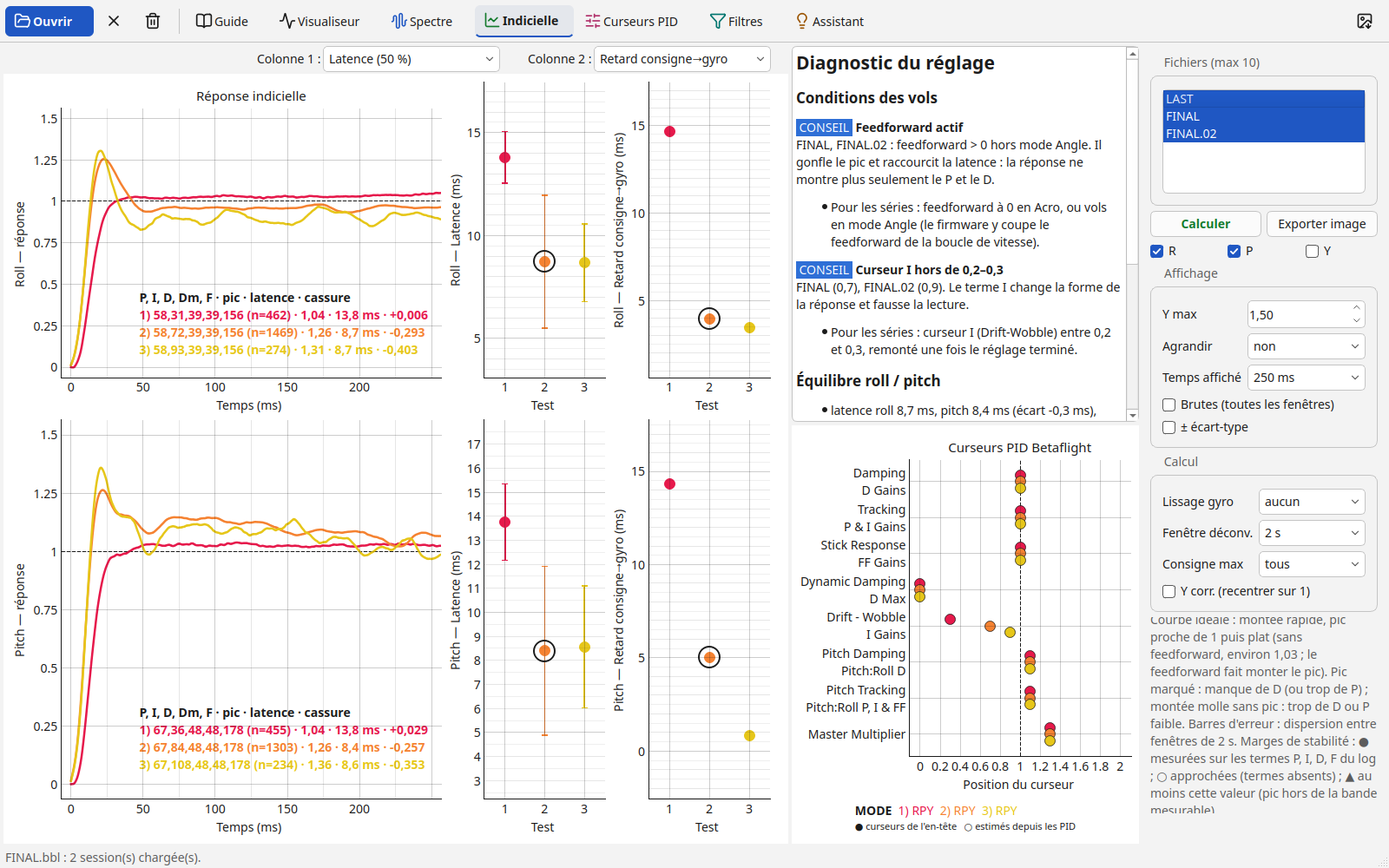
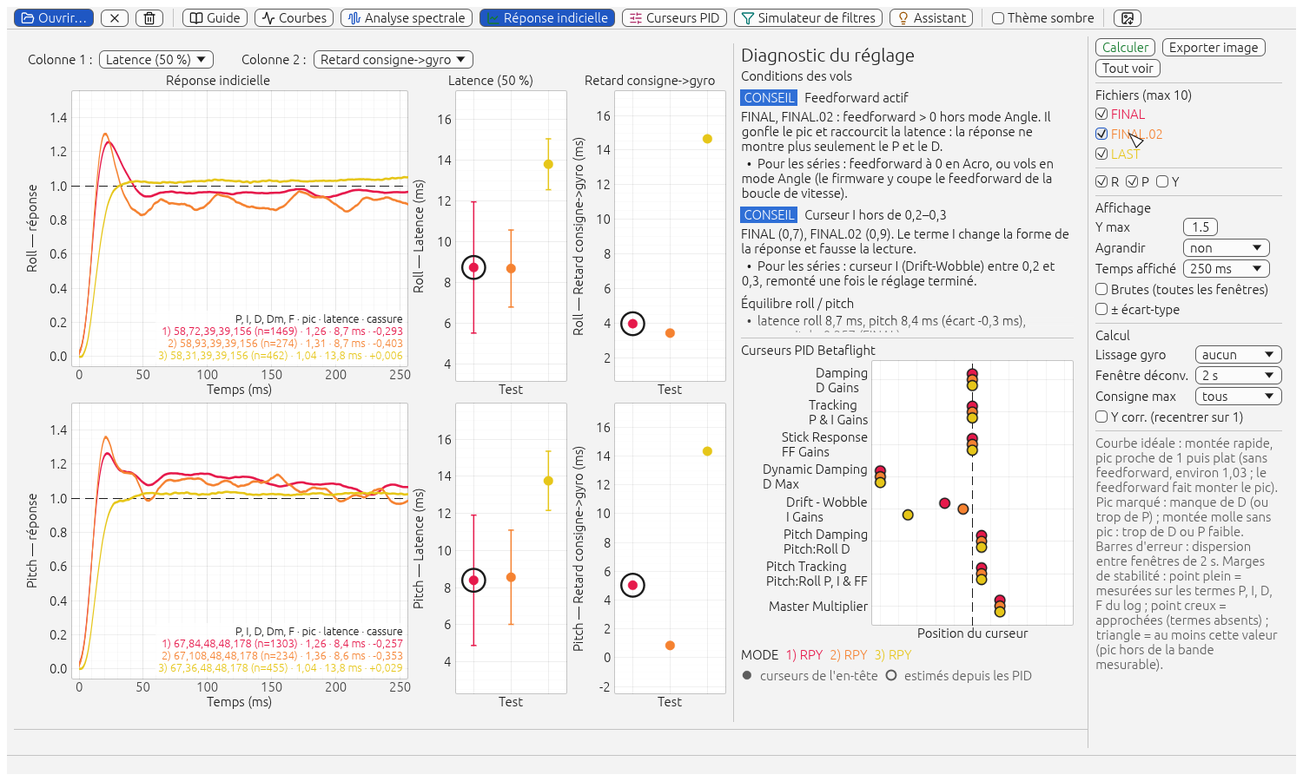
Préparer la version 0.9.0 : résumé du CHANGELOG, captures Rust, références refaites
La section « Non publié » s'ouvre sur un résumé « Ce qui change pour vous »
(taille des installateurs, mêmes résultats, Windows et Linux seulement, licence),
puis garde le détail. Neuf entrées qui décrivaient le code Python supprimé sont
retirées (lint ruff, scipy, scripts golden.py, pip-audit, couverture pytest-cov,
Dependabot côté Python) et la ligne du décodeur ne cite plus le pont PyO3 ni
OTB_BACKEND : la liste a été montrée à Cédric avant le commit. Les deux blocs
« Ajouté » de la section sont fusionnés.

Les quatre captures du README montraient encore l'interface Qt de la version
Python : refaites sans écran sur l'interface Rust (JeNo 5/FINAL.bbl, plus
LAST.bbl pour la réponse indicielle à trois sessions).

Les références figées manquaient sur le poste : refaites avec l'étalon Python
(tag python-final, golden.py record-modules --sample 20). otb-parity check rend
0 écart sur 1 732 appels rejoués, au bit près : le Rust concorde avec le Python
d'aujourd'hui, pas seulement avec celui du portage. verify --strict passe tout
sans aucun saut ; corpus validate rend 694/709, les 15 non conformes étant
exactement celles de la ligne de base (le corpus a perdu 3 fichiers).

diff --git a/CHANGELOG.md b/CHANGELOG.md
@@ -5,6 +5,26 @@ Format inspiré de [Keep a Changelog](https://keepachangelog.com/fr/1.1.0/) ; nu
 
 ## [Non publié]
 
+## [0.9.0] — 2026-11-06
+
+### Ce qui change pour vous
+
+Première version **entièrement en Rust** : l'application a été réécrite de fond en comble ; la version
+Python (0.8.0) et tout ce qu'elle demandait disparaissent.
+
+- **Un seul fichier à installer, bien plus petit** : 7,5 Mo sous Windows et 10,6 Mo sous Linux, au lieu de
+  88 Mo et 167 Mo ; rien d'autre à installer (ni Python, ni bibliothèque).
+- **Plus rapide et plus légère** : le plus gros log du corpus s'ouvre en 0,54 s et tient dans 274 Mo (au lieu
+  de 481 Mo), et l'affichage des courbes reste fluide sur les longs vols (moins de 5 ms par image).
+- **Les mêmes résultats** : chaque calcul a été comparé un par un à la version Python sur tout le corpus de
+  vrais logs, la plupart au bit près ; les outils, le guide intégré et l'assistant sont inchangés.
+- **Windows et Linux seulement** (D-042) : **il n'y a plus de version macOS**.
+- **Nouvelle licence** : PolyForm Noncommercial 1.0.0 (D-045) — le code reste ouvert et le programme gratuit,
+  mais tout usage commercial est interdit. Les mentions des composants tiers sont livrées avec le programme
+  (`THIRD-PARTY-LICENSES.txt`), à côté de la licence.
+
+Le détail complet suit.
+
 ### Ajouté
 - `otb-dev licenses --check` : le fichier de mentions de licences livré (`THIRD-PARTY-LICENSES.txt`) est maintenant **contrôlé automatiquement**. La commande refait le texte en mémoire, le compare au fichier du dépôt sans jamais l'écrire, et rend 1 en nommant la première ligne qui diffère avec le message « relancer `cargo run -p otb-dev -- licenses` » ; `otb-dev verify` en fait une étape à part (durée affichée, aucune commande lancée) et `tests.yml` la lance sous Ubuntu et sous Windows. Une dépendance ajoutée, retirée ou changée de version ne peut donc plus passer sans que les mentions suivent (lot 7a, W-043). Au passage, l'inquiétude de départ est levée : le fichier n'était pas périmé — `zip`, mis à jour après sa dernière écriture, n'est pas livré dans l'interface (dépendance de construction et de test) et n'y figure pas ; le fichier régénéré est identique octet pour octet, et il est le même sous Linux et sous Windows (les composants des deux cibles sont demandés depuis n'importe quel poste).
 - Bilan des cinq chantiers de l'audit du 2026-11-04 (lot 6, `docs/plan-chantiers.md`) : les cinq sont traités et prouvés, avec pour chacun l'état, la contre-preuve exigée, la mesure obtenue et ce qui en reste ouvert. Deux pièges qui manquaient à `docs/lecons.md` y sont écrits : un crochet qui dépend d'un outil absent de la machine rend 0 sans rien vérifier ni rien dire (L-087), et un résultat de calcul en arrière-plan sans numéro de demande s'affiche en revenant alors que plus personne ne l'attend (L-088). Travaux reportés soldés : W-014 (décodeur à 3,4 µs par trame) et W-016 (pic de mémoire) sont clos — leur constat portait sur la version Python, le décodeur Rust ouvre le plus gros log du corpus en 0,54 s et 274 Mo, et la part restante est suivie par W-050.
@@ -15,39 +35,6 @@ Format inspiré de [Keep a Changelog](https://keepachangelog.com/fr/1.1.0/) ; nu
 - `otb-dev verify [--quick] [--strict]` : vérification complète en une commande (formatage, lint, tous les tests, `cargo deny`), code de sortie 0 seulement si tout passe ; les tests sautés faute de corpus (`OTB_GOLDEN`, `OTB_BITEXACT`) sont comptés et affichés, `--strict` en fait un échec. Le crochet de pré-commit n'utilise plus `jq` (absent du poste Windows : il laissait passer tous les commits) et reconnaît aussi la forme avec `-C dossier`. La CI et la documentation n'ont plus la liste des dix `-p`.
 - Plan par lots des cinq chantiers après la migration Rust (`docs/plan-chantiers.md`), issu de l'audit du 2026-11-04 : robustesse du décodeur face à un en-tête hostile (boucle sans fin, allocation géante), résultat périmé affiché par le socle des outils, commande unique de vérification `otb-dev verify` et crochet de pré-commit sans `jq`, mémoire du décodeur, consignes et CI remises à jour. Une PR par lot, preuves et contre-preuves exigées, décisions de Cédric consignées (bornes du décodeur : 512 champs, intervalles 1 à 65 535).
 - Garde-fous pour un agent qui travaille seul : `.claude/settings.json` met les commandes `git push`, `gh pr merge`, `git tag` et `gh release` en « demander » (l'agent ne les lance qu'avec la confirmation de Cédric à chaque fois) ; côté GitHub, la règle `protection-main` exige désormais une approbation par PR.
-
-### Modifié
-- Visualiseur plus fluide sur les longs vols (lot 10 du plan des chantiers, W-049, D-048) : chaque courbe affichée reçoit un index multi-résolution min/max (minimum et maximum par blocs de 8 échantillons, puis de 8 blocs…), et le tracé ne parcourt plus toute la série à chaque image. Sur la plus longue session du corpus (620 079 échantillons) le cadre passe de 10,5–12,1 ms à 4,6–4,8 ms, **y compris pendant un glissement** (10,3–10,8 → 4,8–4,9 ms) ; sur `FINAL.bbl`, de 6,9–8,7 à 3,1–3,2 ms, et de 6,2 à 0,95 ms en fenêtre étroite. Le tracé est inchangé : les captures du viewer sont identiques au bit près, aux deux thèmes. L'index pèse 6,4 à 7,8 % du pic de mémoire, qui ne bouge pas (il est atteint pendant le décodage). Un seul changement visible, sur les courbes à trous (rotation des moteurs en Hz) : un paquet qui contient un trou est désormais toujours tracé comme un trou, là où l'ancien calcul coupait la ligne ou non selon la position du trou. Bancs : `otb-gui --example banc_cadre LOG [--glissement] [--zoom 8]` et `otb-dsp --example banc_minmax`.
-- Ouverture d'un log deux fois moins gourmande en mémoire et plus rapide (lot 5 du plan des chantiers, L-081) : le décodeur range les trames principales en `i32` (valeurs déjà ramenées aux 32 bits, seuls `loopIteration` et `time` restent en 64 bits) et la table est rendue dès que les colonnes utiles sont extraites. Log le plus gourmand du corpus : 481 → 274 Mo (÷ 1,75), 0,63 → 0,54 s ; les `FlightLog` des 528 fichiers du corpus sont identiques au bit près. Banc : `otb-dev bench-open LOG`.
-- Police de l'interface : Ubuntu Light (police par défaut d'egui) est gardée, sous sa propre licence, comme Hack (D-046). La question ouverte au passage sous GPL 3 (W-046) disparaît avec la licence PolyForm Noncommercial, qui n'est pas un copyleft ; la première publication de la version Rust n'est plus bloquée.
-- Consignes des agents remises à jour (lot 2 du plan des chantiers) : `AGENTS.md` ne dit plus « interface Qt », « pas de compilateur C » ni que la migration est en cours ; allégé de 12,6 à 8,4 Ko (organisation en une ligne par crate, détail dans `docs/architecture.md`) ; nouvelles sections « Interdits » (push, tag, fusion, publication seulement avec la confirmation de Cédric ; ne pas toucher au corpus ni affaiblir un test) et variables `OTB_DEV_ROOT`, `OTB_BITEXACT`, `OTB_FORMAT_CASES`. `tests.yml` et `audit.yml` n'écoutent plus `feat/rust-migration` ; `CONTRIBUTING.md` et `docs/migration-rust.md` marquent la migration comme terminée.
-- Le dépôt est **public**, sous licence **PolyForm Noncommercial 1.0.0** (D-045, qui amende la GPL 3 de D-043 le jour même) : le code est ouvert, mais **tout usage commercial est interdit** — pas de revente, pas de service payant, pas d'usage professionnel, et aucune licence commerciale n'est proposée (pas de double licence, l'auteur compris). Les contributions sont publiées sous cette seule licence, sans CLA. `LICENSE` contient le texte officiel précédé de sa ligne `Required Notice:` ; README, CONTRIBUTING, AGENTS et `deny.toml` sont à jour. L'installateur Windows, l'AppImage et `install_linux.sh` livrent désormais `LICENSE` à côté de `THIRD-PARTY-LICENSES.txt` (section « Notices » de la licence) et l'installateur Windows l'affiche à l'installation. Aucune dépendance à copyleft n'est plus acceptable. Conséquence assumée : plus « open source » au sens OSI, donc hors des dépôts Debian, Fedora et Flathub. Les versions v0.2.0 à v0.8.0 (builds Python, PySide6/Qt, macOS) ont été retirées de la page Releases (les étiquettes git restent). Les pseudos de pilotes tiers sont remplacés par des noms neutres dans la documentation.
-- Mentions de licences livrées (W-043) : un fichier `THIRD-PARTY-LICENSES.txt` (324 composants : bibliothèques Rust, polices Hack et Ubuntu Light, logos d'egui, icônes Lucide) est installé avec le programme par l'installateur Windows, l'AppImage et `install_linux.sh`. Les licences des polices (Ubuntu Font Licence, MIT, Bitstream Vera) et des bibliothèques (MIT, Apache 2.0, BSD…) demandent de conserver leur avis dans les copies livrées. Le fichier est produit par `otb-dev licenses` (lecture des fichiers de licence de chaque paquet, textes identiques regroupés ; 22 composants, surtout la famille egui, n'en ont pas dans leur paquet : ils sont listés avec leur licence et leurs auteurs déclarés). La licence OFL de la crate des polices ne concerne que NotoEmoji, non compilée chez nous : un test signale son apparition.
-- Phase 7-5 de la migration Rust (D-035) : **plus aucun Python dans le dépôt**. Supprimés : `src/opentunebox/` (application, 58 modules), `tests/*.py`, `scripts/*.py` (50 scripts), `rust/otb-py` (pont PyO3), `pyproject.toml`, l'emballage PyInstaller (`packaging/opentunebox.spec`, `launcher.py`, `make_icons.py`) et les restes de macOS (`packaging/macos/`, `.icns`). `accueil.md` et `opentunebox.svg` vivent désormais dans `rust/otb-gui/assets/`. La CI (`tests.yml`, `audit.yml`, `dependabot.yml`, modèle de PR) ne parle plus que de Rust : formatage, lint, tests sur Ubuntu et Windows, `cargo-deny`. `otb-dev release` ne met plus à jour que `rust/Cargo.toml` ; le contrôle des chemins cités dans la documentation n'accepte plus de chemin Python que dans les registres d'histoire (`HISTORICAL_DOCS`), avec un test qui échoue si l'exemption s'étend aux autres documents. Documentation réécrite pour le Rust (architecture, AGENTS, compétences, CONTRIBUTING, README) ; procédure « Refaire une référence Python » dans `docs/validation.md`.
-- Les actions GitHub des workflows sont épinglées par leur SHA de commit (`uses: X@SHA # v7.0.1`) au lieu d'une étiquette de version, qu'un dépôt tiers peut déplacer ; SHA relevés par `gh api`. Dependabot (`github-actions`) met à jour le SHA et le commentaire ensemble.
-- macOS abandonné : l'application sera livrée pour Windows et Linux seulement (D-042).
-- Lint par `ruff check` (règles de pyflakes, mêmes contrôles) à la place de `pyflakes`, en local et en CI (D-030).
-- Les lissages, la fenêtre de Hann et l'intercorrélation ne passent plus par scipy mais par `analysis/_numeric.py` (numpy seul, écart à scipy ≈ 1e-14 relatif) ; les 4 noyaux numba des filtres Betaflight sont réécrits en Rust (`rust/otb-dsp`, identiques à numba au bit près, sauf la réponse en fréquence : 1e-15 relatif). scipy, numba et llvmlite (≈ 350 Mo installés) ne sont plus nécessaires à l'application (dossier de l'exécutable Linux : 206 Mo au lieu de 463 Mo) : ils passent dans l'extra `dev`, comme références des tests (D-032).
-
-### Corrigé
-- Test `golden.rs` (concordance avec les références Python figées) : il exigeait le bit près pour toutes les fonctions, alors que 8 d'entre elles (FFT, `sin` / `cos`, `exp`, SVD) ont une tolérance mesurée ; rouge par construction avec `OTB_GOLDEN` (W-048). Il applique désormais la tolérance de chaque fonction, comme `otb-parity check` (bit près par défaut), et liste tous les écarts (D-047, L-083).
-- Test `install_linux` instable (W-047, cause enfin trouvée : L-082) : exécuter le programme fraîchement copié échouait par intermittence avec « Text file busy » (`ETXTBSY`), parce que les cas du fichier tournent en parallèle dans le même processus et qu'un `fork` pendant la copie empêche le noyau d'exécuter le fichier. Le lancement est réessayé sur ce code d'erreur ; aucune assertion n'a été touchée. Avant : 2 échecs sur 5 exécutions ; après : 10 au vert.
-- Interface : une page d'outil n'affiche plus le résultat d'un calcul périmé. `ToolPage` numérote ses demandes et jette le résultat d'une demande qui n'est plus la dernière : après le vidage des logs, un calcul encore en cours faisait réapparaître son résultat sous « Sélectionnez au moins un log. » ; après un changement de sélection, le résultat de l'ancienne sélection pouvait s'afficher (lot 3 du plan des chantiers).
-- Test de l'interface egui (`un_fichier_illisible_n_empeche_pas_les_suivants`) : échec sur la CI Windows (`exceeded max_steps`), le test avance désormais au pas pendant le calcul en arrière-plan (L-077).
-- Interface Rust : les onglets de la barre du haut ont de nouveau leurs icônes colorées (comme dans la version Python) ; la fenêtre Linux porte l'identifiant `OpenTuneBox` (L-076).
-- Simulateur de filtres (interface Rust) : pendant le calcul d'un nouveau log, les spectres de l'ancien ne sont plus affichés.
-- Interface Rust sous Windows : plus de fenêtre de console à l'ouverture, et l'icône d'OpenTuneBox sur l'exécutable et sur la fenêtre.
-- CI Ubuntu à court de disque avec les tests de l'interface egui (`No space left on device`) : les infos de débogage du profil `dev` Rust sont réduites aux tables de lignes (binaires de test de 490 à 186 Mo, 6,7 Go pour toute la séquence) ; L-069.
-- Simulateur de filtres : les notchs dynamiques ajoutés au-delà de ceux du log ne creusent plus à des fréquences fixes sans raie (centres initiaux du
-  firmware) ; ils sont placés sur les pics du gyro non filtré, sinon à leur centre initial. Mesuré sur 383 sessions de 64 drones : 45 % des positions
-  réelles retrouvées contre 28 % (D-041).
-  Le même modèle est porté dans le Rust (`rust/otb-analysis/src/bf_filters.rs`), identique à Python sur les cas de test (W-040).
-- L'assistant ne plante plus sur une session de 0,1 à 0,2 s (reste d'enregistrement après un rebranchement de la batterie) : trop
-  courte pour avoir une fréquence entre 80 Hz et la limite des filtres, elle faisait échouer toute l'analyse (`ValueError: a cannot be
-  empty`, vu sur 2 logs du corpus). La prévision des filtres est alors absente, donc aucun des deux conseils qui en dépendent (LPF1 du gyro
-  superflu, filtre D trop fort). Aucun conseil ne change sur les 631 sessions du corpus (`advisor_rates.py --compare`). Le même correctif est porté dans le Rust (`rules.rs`) ; `otb-parity check-cli` rejoue les 2 fichiers qui plantaient (1 500 textes, 0 écart), `check-advisor` 631 sessions sans écart (références de l'assistant et des journaux refaites, `Hover_Test5.bbl` comprise).
-
-### Ajouté
 - Phase 7-4, suite : une étiquette `essai-v0.8.0` fait essayer toute la chaîne de publication de `construire.yml` (notes, brouillon, construction, envoi, contrôle de la liste des fichiers) sans rien publier : la page reste un brouillon, jamais « dernière version » (`CONTRIBUTING.md`).
 - Phase 7-4, suite : l'AppImage est construite avec un runtime figé. Sans `--runtime-file`, appimagetool 1.9.1 télécharge le runtime depuis la version mouvante `continuous` sans contrôle d'empreinte (lu dans son code source) ; `construire.yml` télécharge désormais `type2-runtime` `20251108`, vérifie son SHA-256 et le passe par `APPIMAGE_RUNTIME` (`build_appimage.sh`, facultatif en local). Le runtime est plus ancien que celui des constructions précédentes : effet non mesuré.
 - Phase 7-4, suites de la relecture : le test du nom du fichier `.desktop` lit désormais la ligne qui écrit le fichier (un commentaire citant le bon nom ne le satisfait plus), et le branchement du lancement est testé (`App::from_launch` : sans argument on reste sur le Guide, avec un log on ouvre les courbes ; le nom du programme n'est pas pris pour un fichier).
@@ -91,26 +78,42 @@ Format inspiré de [Keep a Changelog](https://keepachangelog.com/fr/1.1.0/) ; nu
 - `rust/otb-decoder/src/header.rs` : lecture des en-têtes et découpage en sessions en Rust, identique à Python sur 477 cas limites et les 680 sessions du corpus ; `golden.py record-header`, `otb-parity check-header` (D-035, phase 4a-2, L-045).
 - `rust/otb-log` : tables de modes de débogage et de boîtes (`debug_tables`, `modes`) portées en Rust, identiques à Python sur toutes les tables et une grille de cas ; `scripts/log_tables_cases.py` (D-035, phase 4a).
 - `rust/otb-parity` : comparateur qui relit les références par module et rejoue en Rust les fonctions portées ; `pt1_gain` et `notch_q` portés dans `otb-dsp` (D-035).
-- `golden.py record-modules` et `check-modules` : références par module (entrées et sorties de chaque fonction publique de `analysis/` et `log/`, fichiers npz) pour le comparateur Rust (D-035).
-- `PidTerms` déplacé de `analysis/loop.py` vers `log/pid_terms.py` (réexporté par `loop.py`, comportement inchangé) : prépare le noyau Rust autonome (D-035).
 - `rust/otb-format` : formats de nombres de Python reproduits en Rust (`{:.2f}`, `%g`, `repr`, `round`), identiques sur 12 M de cas ; générateur `scripts/format_cases.py` (D-035, L-044).
 - Prototype d'interface egui (`rust/otb-spike-egui`, jetable, hors CI, supprimé ensuite) sur un vrai log : verdict de l'étape E1 de la migration, aucun point bloquant (D-035, L-043).
 - Boucles par fenêtre de l'analyse du bruit moteur (hauteur des harmoniques, spectres sans les raies moteur, réponse du filtre RPM) en Rust (`rust/otb-analysis`) : l'assistant est 1,29 fois plus rapide à un fil (666 → 515 ms par session), avec exactement les mêmes constats sur les 630 sessions du corpus (D-034, L-041, L-042).
 - Ouverture d'un log : le rejet des trames impossibles et les conversions en float32 sont faits en une seule passe en Rust (`rust/otb-log`) ; un fichier de 34 Mo s'ouvre 1,6 fois plus vite (838 → ≈ 530 ms) et garde 10 % de mémoire en moins, avec un `FlightLog` identique au bit près (D-034).
 - Réponse indicielle (`step_response`) : fenêtrage, FFT, déconvolution et contrôle qualité en un noyau Rust parallèle (`rust/otb-dsp/src/step.rs`), résultat identique quel que soit le nombre de fils ; 1,7× plus rapide à un fil, 4,9× avec tous les cœurs ; l'assistant complet gagne 1,2× à 1,4× (D-033).
-- Décodeur Blackbox en Rust (`rust/otb-decoder`, extension `opentunebox._native` par PyO3 et maturin), moteur par
-  défaut : mêmes tableaux que numba au bit près sur tout le corpus, environ 6 fois plus rapide (22 Mo : 1,94 s →
-  0,29 s) ; `OTB_BACKEND=python` garde numba pendant la migration (D-031, L-032).
-- `scripts/golden.py` : références figées du décodeur, des outils et de l'assistant pour prouver qu'une réécriture
-  en Rust ne change rien ; plan de migration `docs/migration-rust.md` (D-031).
-- `tests/test_ci_audit.py` : le workflow d'audit garde sa forme (pip à jour, pip-audit dans un environnement à
-  part, dirigé par `--path`) ; leçon L-031.
-- La CI publie la couverture de tests (mesure seule, sans seuil) dans le résumé de l'exécution « Tests », décodeur mesuré en
-  Python pur compris ; `pytest-cov` rejoint les outils de développement.
-- Workflow `audit.yml` : contrôle des failles connues des dépendances d'exécution (`pip-audit`) à chaque envoi,
-  chaque demande de fusion et chaque lundi.
-- Dependabot : une demande de fusion hebdomadaire pour les actions GitHub (`.github/dependabot.yml`) ; les
-  dépendances Python restent des planchers `>=`, que Dependabot ne relève pas.
+- Décodeur Blackbox en Rust (`rust/otb-decoder`), moteur par défaut : mêmes tableaux que l'ancien décodeur au bit près sur tout le corpus, environ 6 fois plus rapide (22 Mo : 1,94 s → 0,29 s) (D-031, L-032).
+
+### Modifié
+- Captures du `README.md` refaites sur l'interface Rust (visualiseur, guide, réponse indicielle, assistant) : elles montraient encore l'interface Qt de la version Python. Prises sans écran par `cargo run --release -p otb-gui --example capture` sur `JeNo 5/FINAL.bbl` (et `LAST.bbl` pour la réponse indicielle à trois sessions), thème clair.
+- Visualiseur plus fluide sur les longs vols (lot 10 du plan des chantiers, W-049, D-048) : chaque courbe affichée reçoit un index multi-résolution min/max (minimum et maximum par blocs de 8 échantillons, puis de 8 blocs…), et le tracé ne parcourt plus toute la série à chaque image. Sur la plus longue session du corpus (620 079 échantillons) le cadre passe de 10,5–12,1 ms à 4,6–4,8 ms, **y compris pendant un glissement** (10,3–10,8 → 4,8–4,9 ms) ; sur `FINAL.bbl`, de 6,9–8,7 à 3,1–3,2 ms, et de 6,2 à 0,95 ms en fenêtre étroite. Le tracé est inchangé : les captures du viewer sont identiques au bit près, aux deux thèmes. L'index pèse 6,4 à 7,8 % du pic de mémoire, qui ne bouge pas (il est atteint pendant le décodage). Un seul changement visible, sur les courbes à trous (rotation des moteurs en Hz) : un paquet qui contient un trou est désormais toujours tracé comme un trou, là où l'ancien calcul coupait la ligne ou non selon la position du trou. Bancs : `otb-gui --example banc_cadre LOG [--glissement] [--zoom 8]` et `otb-dsp --example banc_minmax`.
+- Ouverture d'un log deux fois moins gourmande en mémoire et plus rapide (lot 5 du plan des chantiers, L-081) : le décodeur range les trames principales en `i32` (valeurs déjà ramenées aux 32 bits, seuls `loopIteration` et `time` restent en 64 bits) et la table est rendue dès que les colonnes utiles sont extraites. Log le plus gourmand du corpus : 481 → 274 Mo (÷ 1,75), 0,63 → 0,54 s ; les `FlightLog` des 528 fichiers du corpus sont identiques au bit près. Banc : `otb-dev bench-open LOG`.
+- Police de l'interface : Ubuntu Light (police par défaut d'egui) est gardée, sous sa propre licence, comme Hack (D-046). La question ouverte au passage sous GPL 3 (W-046) disparaît avec la licence PolyForm Noncommercial, qui n'est pas un copyleft ; la première publication de la version Rust n'est plus bloquée.
+- Consignes des agents remises à jour (lot 2 du plan des chantiers) : `AGENTS.md` ne dit plus « interface Qt », « pas de compilateur C » ni que la migration est en cours ; allégé de 12,6 à 8,4 Ko (organisation en une ligne par crate, détail dans `docs/architecture.md`) ; nouvelles sections « Interdits » (push, tag, fusion, publication seulement avec la confirmation de Cédric ; ne pas toucher au corpus ni affaiblir un test) et variables `OTB_DEV_ROOT`, `OTB_BITEXACT`, `OTB_FORMAT_CASES`. `tests.yml` et `audit.yml` n'écoutent plus `feat/rust-migration` ; `CONTRIBUTING.md` et `docs/migration-rust.md` marquent la migration comme terminée.
+- Le dépôt est **public**, sous licence **PolyForm Noncommercial 1.0.0** (D-045, qui amende la GPL 3 de D-043 le jour même) : le code est ouvert, mais **tout usage commercial est interdit** — pas de revente, pas de service payant, pas d'usage professionnel, et aucune licence commerciale n'est proposée (pas de double licence, l'auteur compris). Les contributions sont publiées sous cette seule licence, sans CLA. `LICENSE` contient le texte officiel précédé de sa ligne `Required Notice:` ; README, CONTRIBUTING, AGENTS et `deny.toml` sont à jour. L'installateur Windows, l'AppImage et `install_linux.sh` livrent désormais `LICENSE` à côté de `THIRD-PARTY-LICENSES.txt` (section « Notices » de la licence) et l'installateur Windows l'affiche à l'installation. Aucune dépendance à copyleft n'est plus acceptable. Conséquence assumée : plus « open source » au sens OSI, donc hors des dépôts Debian, Fedora et Flathub. Les versions v0.2.0 à v0.8.0 (builds Python, PySide6/Qt, macOS) ont été retirées de la page Releases (les étiquettes git restent). Les pseudos de pilotes tiers sont remplacés par des noms neutres dans la documentation.
+- Mentions de licences livrées (W-043) : un fichier `THIRD-PARTY-LICENSES.txt` (324 composants : bibliothèques Rust, polices Hack et Ubuntu Light, logos d'egui, icônes Lucide) est installé avec le programme par l'installateur Windows, l'AppImage et `install_linux.sh`. Les licences des polices (Ubuntu Font Licence, MIT, Bitstream Vera) et des bibliothèques (MIT, Apache 2.0, BSD…) demandent de conserver leur avis dans les copies livrées. Le fichier est produit par `otb-dev licenses` (lecture des fichiers de licence de chaque paquet, textes identiques regroupés ; 22 composants, surtout la famille egui, n'en ont pas dans leur paquet : ils sont listés avec leur licence et leurs auteurs déclarés). La licence OFL de la crate des polices ne concerne que NotoEmoji, non compilée chez nous : un test signale son apparition.
+- Phase 7-5 de la migration Rust (D-035) : **plus aucun Python dans le dépôt**. Supprimés : `src/opentunebox/` (application, 58 modules), `tests/*.py`, `scripts/*.py` (50 scripts), `rust/otb-py` (pont PyO3), `pyproject.toml`, l'emballage PyInstaller (`packaging/opentunebox.spec`, `launcher.py`, `make_icons.py`) et les restes de macOS (`packaging/macos/`, `.icns`). `accueil.md` et `opentunebox.svg` vivent désormais dans `rust/otb-gui/assets/`. La CI (`tests.yml`, `audit.yml`, `dependabot.yml`, modèle de PR) ne parle plus que de Rust : formatage, lint, tests sur Ubuntu et Windows, `cargo-deny`. `otb-dev release` ne met plus à jour que `rust/Cargo.toml` ; le contrôle des chemins cités dans la documentation n'accepte plus de chemin Python que dans les registres d'histoire (`HISTORICAL_DOCS`), avec un test qui échoue si l'exemption s'étend aux autres documents. Documentation réécrite pour le Rust (architecture, AGENTS, compétences, CONTRIBUTING, README) ; procédure « Refaire une référence Python » dans `docs/validation.md`.
+- Les actions GitHub des workflows sont épinglées par leur SHA de commit (`uses: X@SHA # v7.0.1`) au lieu d'une étiquette de version, qu'un dépôt tiers peut déplacer ; SHA relevés par `gh api`. Dependabot (`github-actions`) met à jour le SHA et le commentaire ensemble.
+- macOS abandonné : l'application sera livrée pour Windows et Linux seulement (D-042).
+
+### Corrigé
+- Test `golden.rs` (concordance avec les références Python figées) : il exigeait le bit près pour toutes les fonctions, alors que 8 d'entre elles (FFT, `sin` / `cos`, `exp`, SVD) ont une tolérance mesurée ; rouge par construction avec `OTB_GOLDEN` (W-048). Il applique désormais la tolérance de chaque fonction, comme `otb-parity check` (bit près par défaut), et liste tous les écarts (D-047, L-083).
+- Test `install_linux` instable (W-047, cause enfin trouvée : L-082) : exécuter le programme fraîchement copié échouait par intermittence avec « Text file busy » (`ETXTBSY`), parce que les cas du fichier tournent en parallèle dans le même processus et qu'un `fork` pendant la copie empêche le noyau d'exécuter le fichier. Le lancement est réessayé sur ce code d'erreur ; aucune assertion n'a été touchée. Avant : 2 échecs sur 5 exécutions ; après : 10 au vert.
+- Interface : une page d'outil n'affiche plus le résultat d'un calcul périmé. `ToolPage` numérote ses demandes et jette le résultat d'une demande qui n'est plus la dernière : après le vidage des logs, un calcul encore en cours faisait réapparaître son résultat sous « Sélectionnez au moins un log. » ; après un changement de sélection, le résultat de l'ancienne sélection pouvait s'afficher (lot 3 du plan des chantiers).
+- Test de l'interface egui (`un_fichier_illisible_n_empeche_pas_les_suivants`) : échec sur la CI Windows (`exceeded max_steps`), le test avance désormais au pas pendant le calcul en arrière-plan (L-077).
+- Interface Rust : les onglets de la barre du haut ont de nouveau leurs icônes colorées (comme dans la version Python) ; la fenêtre Linux porte l'identifiant `OpenTuneBox` (L-076).
+- Simulateur de filtres (interface Rust) : pendant le calcul d'un nouveau log, les spectres de l'ancien ne sont plus affichés.
+- Interface Rust sous Windows : plus de fenêtre de console à l'ouverture, et l'icône d'OpenTuneBox sur l'exécutable et sur la fenêtre.
+- CI Ubuntu à court de disque avec les tests de l'interface egui (`No space left on device`) : les infos de débogage du profil `dev` Rust sont réduites aux tables de lignes (binaires de test de 490 à 186 Mo, 6,7 Go pour toute la séquence) ; L-069.
+- Simulateur de filtres : les notchs dynamiques ajoutés au-delà de ceux du log ne creusent plus à des fréquences fixes sans raie (centres initiaux du
+  firmware) ; ils sont placés sur les pics du gyro non filtré, sinon à leur centre initial. Mesuré sur 383 sessions de 64 drones : 45 % des positions
+  réelles retrouvées contre 28 % (D-041).
+  Le même modèle est porté dans le Rust (`rust/otb-analysis/src/bf_filters.rs`), identique à Python sur les cas de test (W-040).
+- L'assistant ne plante plus sur une session de 0,1 à 0,2 s (reste d'enregistrement après un rebranchement de la batterie) : trop
+  courte pour avoir une fréquence entre 80 Hz et la limite des filtres, elle faisait échouer toute l'analyse (`ValueError: a cannot be
+  empty`, vu sur 2 logs du corpus). La prévision des filtres est alors absente, donc aucun des deux conseils qui en dépendent (LPF1 du gyro
+  superflu, filtre D trop fort). Aucun conseil ne change sur les 631 sessions du corpus (`advisor_rates.py --compare`). Le même correctif est porté dans le Rust (`rules.rs`) ; `otb-parity check-cli` rejoue les 2 fichiers qui plantaient (1 500 textes, 0 écart), `check-advisor` 631 sessions sans écart (références de l'assistant et des journaux refaites, `Hover_Test5.bbl` comprise).
 
 ## [0.8.0] — 2026-10-13
 
@@ -629,7 +632,8 @@ Première version complète.
 - Lanceur Linux (menu des applications) et recette PyInstaller.
 - Guide d'utilisation en français.
 
-[Non publié]: ../../compare/v0.8.0...HEAD
+[Non publié]: ../../compare/v0.9.0...HEAD
+[0.9.0]: ../../releases/tag/v0.9.0
 [0.8.0]: ../../releases/tag/v0.8.0
 [0.7.0]: ../../releases/tag/v0.7.0
 [0.6.0]: ../../releases/tag/v0.6.0

diff --git a/docs/plan-chantiers.md b/docs/plan-chantiers.md
@@ -335,15 +335,22 @@ Sous-lot 7a, contrôle des mentions de licences (PR `feat/licenses-check`) :
 
 Sous-lot 7b, préparation de la version (PR `chore/release-0.9.0`) :
 
-- [ ] CHANGELOG, section *Non publié* : écrire en tête un court résumé « ce qui change pour vous » (application réécrite en Rust,
+- [x] CHANGELOG, section *Non publié* : écrire en tête un court résumé « ce qui change pour vous » (application réécrite en Rust,
       installateurs de 7,5 Mo et 10 Mo au lieu de 88 Mo et 167 Mo, Windows et Linux seulement (D-042), licence PolyForm
       Noncommercial (D-045), ce qui disparaît : macOS) ; retirer les lignes qui décrivent le code Python supprimé (lint `ruff`,
       scipy et numba…) : **liste des lignes retirées montrée à Cédric avant le commit**. Vérifier que `otb-dev release notes 0.9.0`
       rend bien le résumé puis le détail (`changelog_section` coupe à la section suivante : un sous-titre libre doit passer).
-- [ ] Relire `README.md` (téléchargement, configuration requise, captures) pour la version Rust.
-- [ ] `otb-dev licenses --check` à 0, puis `cargo run -p otb-dev -- release prepare 0.9.0`.
-- [ ] Vérification : `verify --strict` vert sur le poste qui a le corpus ; `otb-parity check "$OTB_GOLDEN"` 0 écart ;
+- [x] Relire `README.md` (téléchargement, configuration requise, captures) pour la version Rust.
+- [x] `otb-dev licenses --check` à 0, puis `cargo run -p otb-dev -- release prepare 0.9.0`.
+- [x] Vérification : `verify --strict` vert sur le poste qui a le corpus ; `otb-parity check "$OTB_GOLDEN"` 0 écart ;
       `corpus validate` égal à la ligne de base (697/712, ou la valeur consignée au lot 5).
+      **Fait le 2026-11-06** : `verify --strict` **tout passe, 0 saut** (131 s) ; `otb-parity check` **0 écart**
+      (3 128 fichiers, 1 732 appels rejoués, au bit près) ; `corpus validate` **694/709**, les 15 non conformes sont
+      exactement celles de la ligne de base (l'écart de total vient du corpus, qui a perdu 3 fichiers : 525 lus au lieu de
+      528). Les références figées **manquaient sur le poste** : refaites avec l'étalon Python (`python-final`,
+      `golden.py record-modules --sample 20`, numpy 2.5.4), ce qui prouve au passage que le Rust concorde encore avec le
+      Python d'aujourd'hui. Captures du README refaites : elles montraient l'interface Qt. Détail dans
+      [validation.md](validation.md), « Contrôles avant la version 0.9.0 ».
 
 Étape 7c, essai complet sans rien publier (sur la branche de 7b, **avant** sa fusion) :
 
@@ -504,7 +511,7 @@ en parallèle est **écarté** ici : ×1,10 seulement sur `FINAL.bbl`, et il cum
 | 4 | Fait le 2026-11-04 (branche `fix/decoder-hostile-header`, D-044, L-080) : `DecodeError`, bornes 512 champs / intervalles 1 à 65 535, `try_reserve`, `Settings::implausible`. `robustness.rs` : 10 cas, 6 rouges avant correction (les intervalles à 9·10¹⁸ ne bouclaient pas sur cette source : refusés par la borne seulement) ; contre-preuves : 4 retraits rougissent. `otb-parity` 0 échec, `corpus validate` 697/712 comme la ligne de base |
 | 5 | Fait le 2026-11-04 (branche `perf/decoder-memory`, poussée, PR non ouverte, L-081). Banc `otb-dev bench-open` fait (lot 5a). 5a (session par session) essayé et retiré : sans effet (une seule session, +32 Mo). Variante 1 : rendre la table `i64` avant les copies finales : 481 → 342 Mo. Variante 2 (accord de Cédric) : `CompactTable`, trames rangées en `i32` dès le décodeur : **274 Mo (÷ 1,75, objectif ÷ 1,5 atteint, ÷ 2 manqué), 0,54 s (plus rapide)**, `FlightLog` identiques sur 528 fichiers, `corpus validate` 697/712, `otb-parity` 0 échec. Un décodage par blocs vers `f32` irait plus loin (non fait). `golden.rs` rouge sur `main` avec `OTB_GOLDEN`, non traité |
 | 6 | Fait le 2026-11-06 (branche **docs/plan-suite**, avec le plan de la suite : la branche prévue docs/chantiers-bilan aurait empilé une PR sur une PR non fusionnée, choix de Cédric). Bilan des cinq chantiers ci-dessus ; L-087 et L-088 écrites ; W-014 et W-016 clos, W-035 (9), W-036 (8) et W-041 mis à jour ; note périmée sur `golden.rs` corrigée dans `validation.md`. Aucun code livré. Écart au plan : les mesures de robustesse et de mémoire n'avaient pas à être reprises (les lots 4 et 5 les avaient déjà écrites dans `validation.md`), et la 3ᵉ leçon prévue existait déjà (L-080) |
-| 7 | Détaillé le 2026-11-05 (0.9.0, après les lots 5 et 6). **7a fait le 2026-11-06** (branche `feat/licenses-check`) : `otb-dev licenses --check`, étape `licenses` de `verify`, contrôle dans `tests.yml` sous Ubuntu **et sous Windows**. Hypothèse du constat de départ **fausse** : le fichier du dépôt n'était pas périmé (régénéré sous Linux, identique octet pour octet, 324 composants et 607 849 octets), car `zip` n'est pas une dépendance livrée d'`otb-gui` (construction et test seulement) et n'apparaît pas dans le fichier ; la mise à jour de la PR #99 ne pouvait donc rien changer. Les crates propres à Windows (`clipboard-win`, `accesskit_windows`, `windows_x86_64_msvc`) sont déjà prises depuis Linux, textes de licence compris. Contre-preuves : une ligne retirée → `--check` rend 1 en nommant la ligne 250, et `verify --quick` rend 1 avec l'étape `licenses : ÉCHEC`. 7b à 7e : à faire |
+| 7 | Détaillé le 2026-11-05 (0.9.0, après les lots 5 et 6). **7a fait le 2026-11-06** (branche `feat/licenses-check`) : `otb-dev licenses --check`, étape `licenses` de `verify`, contrôle dans `tests.yml` sous Ubuntu **et sous Windows**. Hypothèse du constat de départ **fausse** : le fichier du dépôt n'était pas périmé (régénéré sous Linux, identique octet pour octet, 324 composants et 607 849 octets), car `zip` n'est pas une dépendance livrée d'`otb-gui` (construction et test seulement) et n'apparaît pas dans le fichier ; la mise à jour de la PR #99 ne pouvait donc rien changer. Les crates propres à Windows (`clipboard-win`, `accesskit_windows`, `windows_x86_64_msvc`) sont déjà prises depuis Linux, textes de licence compris. Contre-preuves : une ligne retirée → `--check` rend 1 en nommant la ligne 250, et `verify --quick` rend 1 avec l'étape `licenses : ÉCHEC`. **7b fait le 2026-11-06** (branche `chore/release-0.9.0`) : résumé « Ce qui change pour vous » en tête du CHANGELOG (9 entrées de l'époque Python retirées avec l'accord de Cédric, ligne du décodeur reformulée), captures du README refaites sur l'interface Rust, `release prepare 0.9.0`, et les trois vérifications au vert (détail dans la section du lot). 7c à 7e : à faire |
 | 8 | Fait le 2026-11-05 (branche `chore/viewer-frame-bench`, partie de `main` : le lot 5 était fusionné) : `examples/banc_cadre.rs`. Étalon retrouvé sur `FINAL.bbl` (viewer 7,4 à 8,3 ms, Guide 0,41 à 0,43, 6,2 ms à 640 px) ; `LOG00008.BFL` 12,6 à 13,0 ms à 620 079 échantillons, sous les 16,7 ms. Écart au plan : les 0,34 ms de carte graphique de W-049 ne se reproduisent pas (kittest prend le rendu logiciel par défaut ; sur vraie carte, ≈ 10 ms fixes de relecture même sans courbe) : `--gpu` gardé avec chiffres bruts (accord de Cédric), le lot 10 se juge sur le temps du processeur. Le banc ajoute la tessellation (0,7 ms) |
 | 9 | Non retenu le 2026-11-04 ; repris hors lot le 2026-11-05 (branche `test/golden-tolerance`, D-047, L-083) : `golden.rs` vert avec `OTB_GOLDEN` |
 | 10 | Fait le 2026-11-05 (branche `perf/viewer-pyramid`, D-048, L-085, L-086) : index multi-résolution min/max dans `otb-dsp`, cadre du viewer ÷ 2,2 (620 079 échantillons : 10,5–12,1 → 4,6–4,8 ms) à ÷ 6,5 (fenêtre étroite), autant pendant un glissement ; tracé identique au bit près, index à 6,4–7,8 % du pic de mémoire (pic inchangé, plafond de Cédric : 10 %). Décision de Cédric : piste (b). Écart au plan : exactitude obtenue **point pour point** et non seulement sur l'enveloppe, mais la règle des trous a dû changer (un paquet à trou est tracé comme un trou, D-048). Reste W-052 : le cadre est maintenant dominé par le tracé des ≈ 3 840 points de chaque courbe |

diff --git a/docs/validation.md b/docs/validation.md
@@ -300,6 +300,19 @@ longue du log, 3 cadres de chauffe puis 60 cadres chronométrés un par un). Pos
   4 ms d'un essai à l'autre sur `FINAL.bbl` : c'est un majorant bruité. Les 0,34 ms de W-049 ne se retrouvent pas, et la façon
   dont ils avaient été obtenus est perdue avec le banc. Le cadre se juge donc sur le temps du processeur.
 
+### Contrôles avant la version 0.9.0 (2026-11-06, branche `chore/release-0.9.0`, poste Linux)
+
+Les références figées (`$OTB_GOLDEN`) avaient disparu du poste : elles ont été **refaites** avec l'étalon Python
+(procédure ci-dessous, `golden.py record-modules DOSSIER --sample 20`, numpy 2.5.4), puis rejouées.
+
+- `cargo run --release -p otb-parity -- check "$OTB_GOLDEN"` : 3 128 fichiers, 90 fonctions (50 portées),
+  1 732 appels rejoués, **0 écart** au bit près (`rtol=0`). Le Rust rend donc exactement ce que rend le Python
+  d'aujourd'hui, et non seulement ce qu'il rendait au moment du portage.
+- `cargo run -p otb-dev -- verify --strict` (avec `OTB_GOLDEN` et `OTB_BITEXACT=1`) : **tout passe, 0 saut**, 131 s.
+- `cargo run --release -p otb-dev -- corpus validate` : **694 sessions conformes sur 709**, statuts
+  ok 624, gap 67, slow 8, values 5, refhang 3, rows 2. Les 15 non conformes sont exactement celles de la ligne de
+  base du 2026-11-04 ; l'écart sur le total vient du corpus lui-même, qui a perdu 3 fichiers (525 lus au lieu de 528).
+
 ## Refaire une référence Python
 
 La version Python (application, tests, scripts) a été supprimée du dépôt à la phase 7-5 ; elle reste dans l'historique git. Les fichiers qui
@@ -312,6 +325,11 @@ refaire un (par exemple après un changement voulu d'un seuil, voir la compéten
 3. Les scripts sont dans `scripts/` (`*_cases.py` pour les cas de `rust/*/tests/data/`, `golden.py record…` pour `$OTB_GOLDEN`) ; leur en-tête dit
    quel fichier ils écrivent. Copier le résultat dans `rust/` et lancer `otb-parity` ou les tests de la crate.
 4. Retirer le dossier : `git worktree remove ../otb-etalon`.
+
+Pour `$OTB_GOLDEN` seul, inutile de tout réenregistrer : `golden.py record-modules DOSSIER --sample 20` écrit le
+sous-dossier `modules/` (≈ 3 100 fichiers, 850 Mo), et c'est le **seul** que lisent `otb-parity check` et le test
+`rust/otb-parity/tests/golden.rs`. Les autres `record-…` servent à `otb-parity check-cli`, `check-advisor` et
+`check-guide`. Sans `$OTB_GOLDEN`, ce test saute (`[OTB-SAUT]`) et `verify --strict` reste rouge (L-023).
 
 Le Python n'est plus maintenu : un cas qui ne peut plus s'écrire ainsi (règle ou seuil modifié dans le Rust) se met à jour à la main, dans le
 test concerné, avec la raison.
